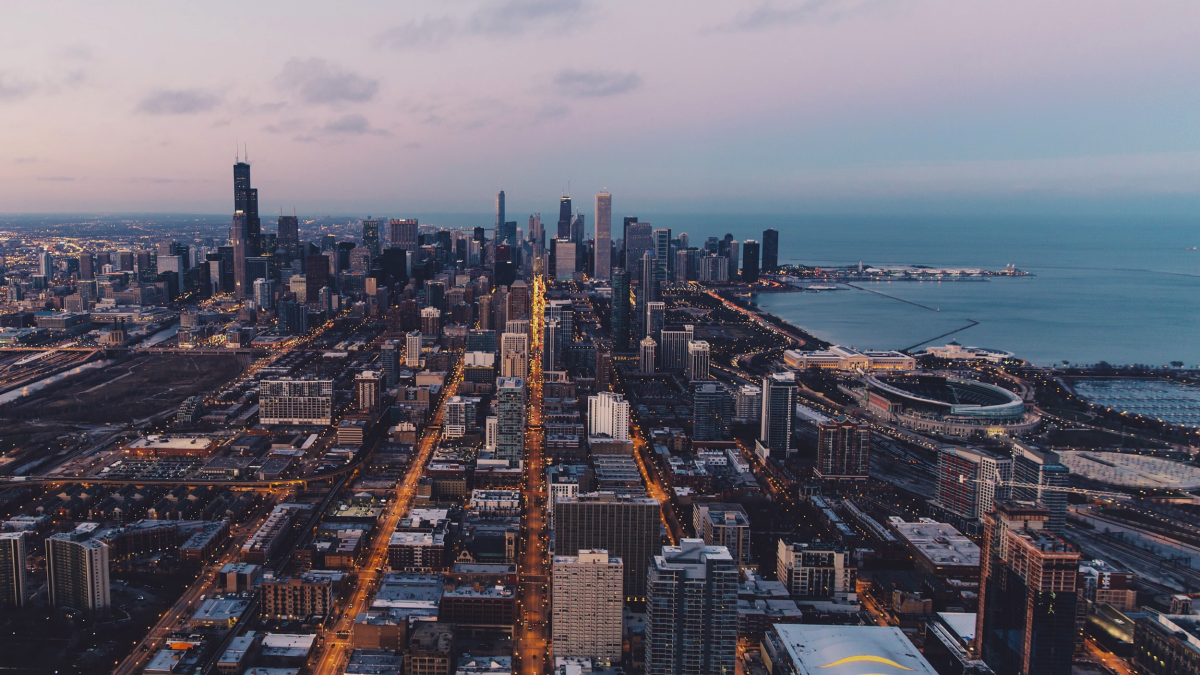
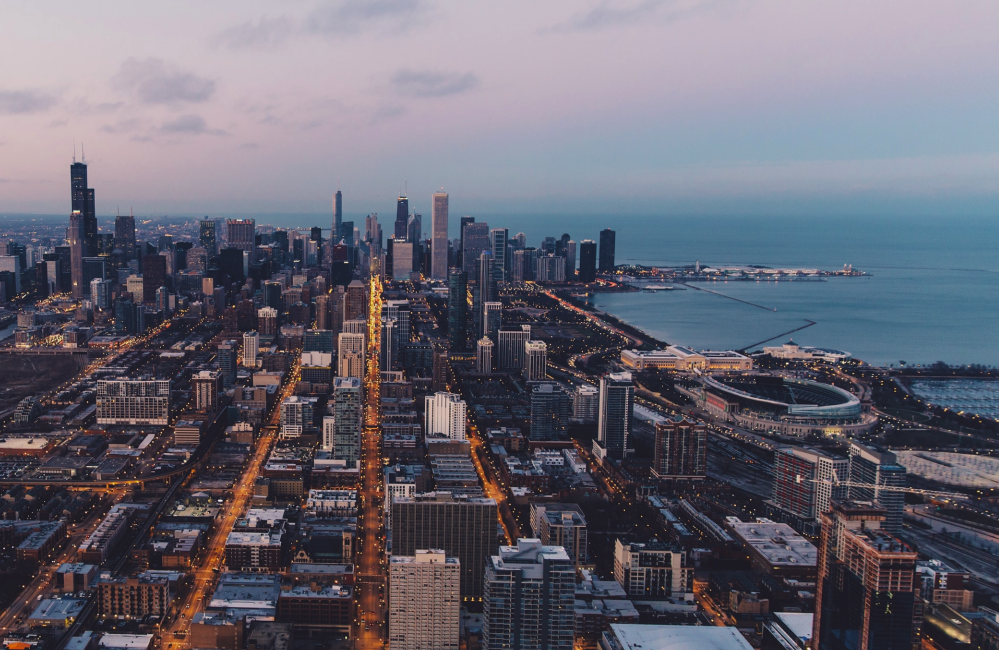
updated join page styling

diff --git a/scss/main.scss b/scss/main.scss
@@ -2095,14 +2095,6 @@ p.cardText {
     min-height: 100%;
   }
 
-  #onboarding-night {
-    img {
-      height: 250px;
-      object-fit: contain;
-      object-position: unset;
-    }
-  }
-
   @media (min-width: $breakpoint-sm) {
     .image-container {
       padding-right: 32px;
@@ -2165,12 +2157,11 @@ p.cardText {
   }
 
   @media (max-width: 360px) {
-    padding: 48px 0px;
-    margin-left: 24px;
-    margin-right: 24px;
+    padding: 48px 24px;
     .starting-projects-item {
       flex-direction: column;
       height: min-content;
+      margin-bottom: 1rem;
     }
     .starting-projects-grid > * + * {
       margin-top: 48px;
@@ -2179,6 +2170,7 @@ p.cardText {
       width: 100%;
       height: auto;
       padding-right: 0;
+      margin-bottom: 1rem;
     }
   }
 }

diff --git a/pages/join.html b/pages/join.html
@@ -85,7 +85,7 @@ home: false
   </div>
   <div class='starting-projects-grid'>
     <div class="starting-projects-item">
-      <div class='image-container' id="onboarding-night">
+      <div class='image-container'>
         <img class='starting-projects-image' src='/images/Onboarding.png' alt='View of the Chicago skyline from above'>
       </div>
       <div class='starting-projects-info'>
